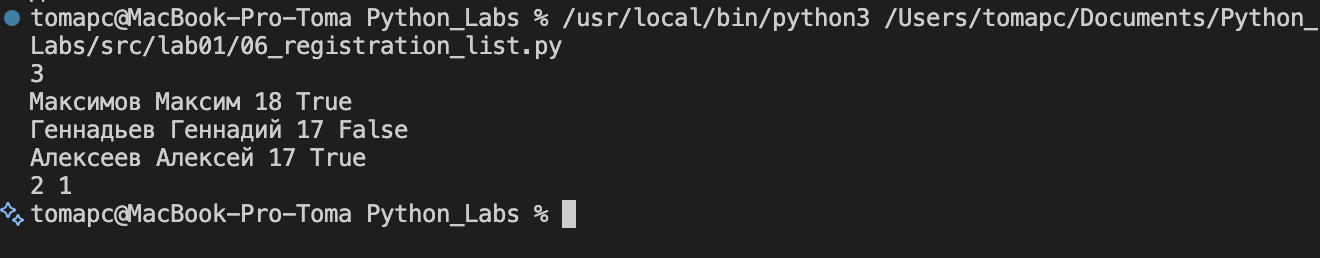
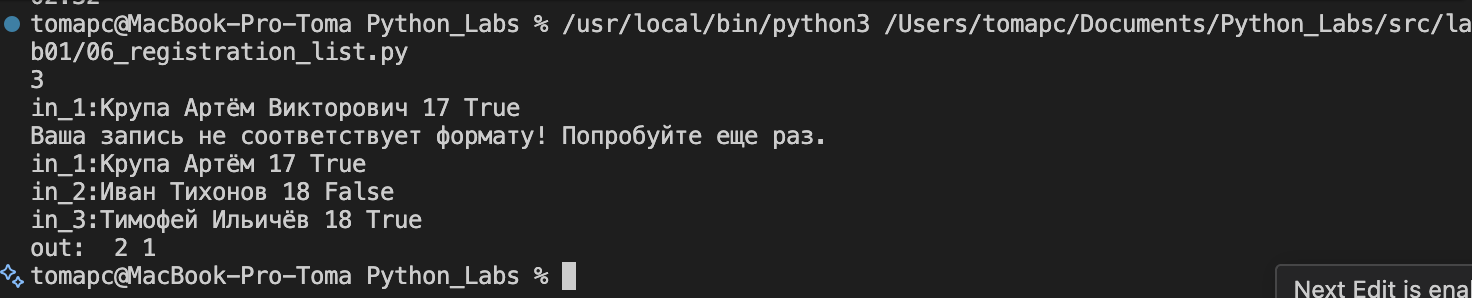
Update screenshots for 04 and 06, add continue on invalid input

Changed region(s): [[0.0, 0.0, 1.0, 0.9922], [0.8697, 0.9302, 1.0, 1.0], [0.8697, 0.8682, 1.0, 0.8992]]

diff --git a/src/lab01/06_registration_list.py b/src/lab01/06_registration_list.py
@@ -13,4 +13,5 @@ while i<n:
             i+=1
     else:
         print("Ваша запись не соответствует формату! Попробуйте еще раз.")
+        continue
 print("out: ",t,f)
